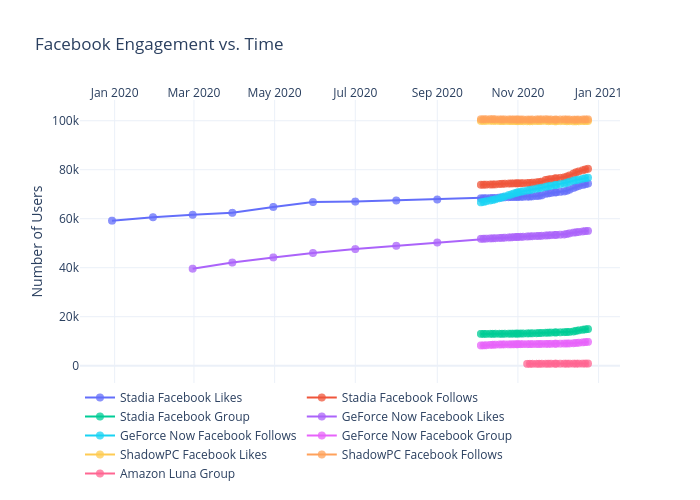
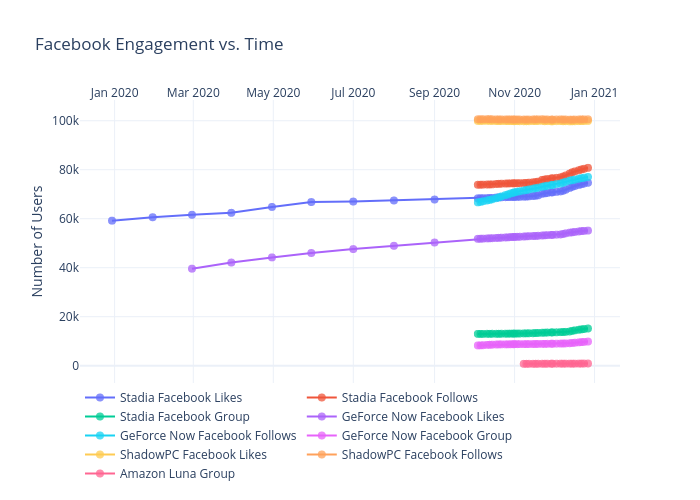
Add files via upload

diff --git a/facebook/figure.js b/facebook/figure.js
@@ -124,7 +124,8 @@ var figure = {
                 "73362",
                 "73788",
                 "74088",
-                "74366"
+                "74366",
+                "74681"
             ],
             "marker": {
                 "size": 8,
@@ -258,7 +259,8 @@ var figure = {
                 "79305",
                 "79783",
                 "80103",
-                "80377"
+                "80377",
+                "80771"
             ],
             "marker": {
                 "size": 8,
@@ -392,7 +394,8 @@ var figure = {
                 "14419",
                 "14666",
                 "14831",
-                "14956"
+                "14956",
+                "15175"
             ],
             "marker": {
                 "size": 8,
@@ -526,7 +529,8 @@ var figure = {
                 "54597",
                 "54795",
                 "54956",
-                "55019"
+                "55019",
+                "55151"
             ],
             "marker": {
                 "size": 8,
@@ -660,7 +664,8 @@ var figure = {
                 "75967",
                 "76322",
                 "76567",
-                "76753"
+                "76753",
+                "77060"
             ],
             "marker": {
                 "size": 8,
@@ -794,7 +799,8 @@ var figure = {
                 "9371",
                 "9510",
                 "9628",
-                "9708"
+                "9708",
+                "9839"
             ],
             "marker": {
                 "size": 8,
@@ -928,7 +934,8 @@ var figure = {
                 "99800",
                 "99838",
                 "99862",
-                "99883"
+                "99883",
+                "99910"
             ],
             "marker": {
                 "size": 8,
@@ -1062,7 +1069,8 @@ var figure = {
                 "100475",
                 "100513",
                 "100537",
-                "100558"
+                "100558",
+                "100585"
             ],
             "marker": {
                 "size": 8,
@@ -1196,7 +1204,8 @@ var figure = {
                 "826",
                 "842",
                 "851",
-                "863"
+                "863",
+                "872"
             ],
             "marker": {
                 "size": 8,
@@ -1215,8 +1224,8 @@ var figure = {
             "side": "top",
             "type": "date",
             "range": [
-                "2019-12-07 10:32:53.5245",
-                "2021-01-15 13:27:06.4755"
+                "2019-12-07 06:02:09.9706",
+                "2021-01-18 17:57:50.0294"
             ],
             "title": {
                 "text": ""
@@ -1226,8 +1235,8 @@ var figure = {
         "yaxis": {
             "type": "linear",
             "range": [
-                -11746.375,
-                113137.375
+                -6104.3003735699285,
+                107495.30037356993
             ],
             "title": {
                 "text": "Number of Users"
